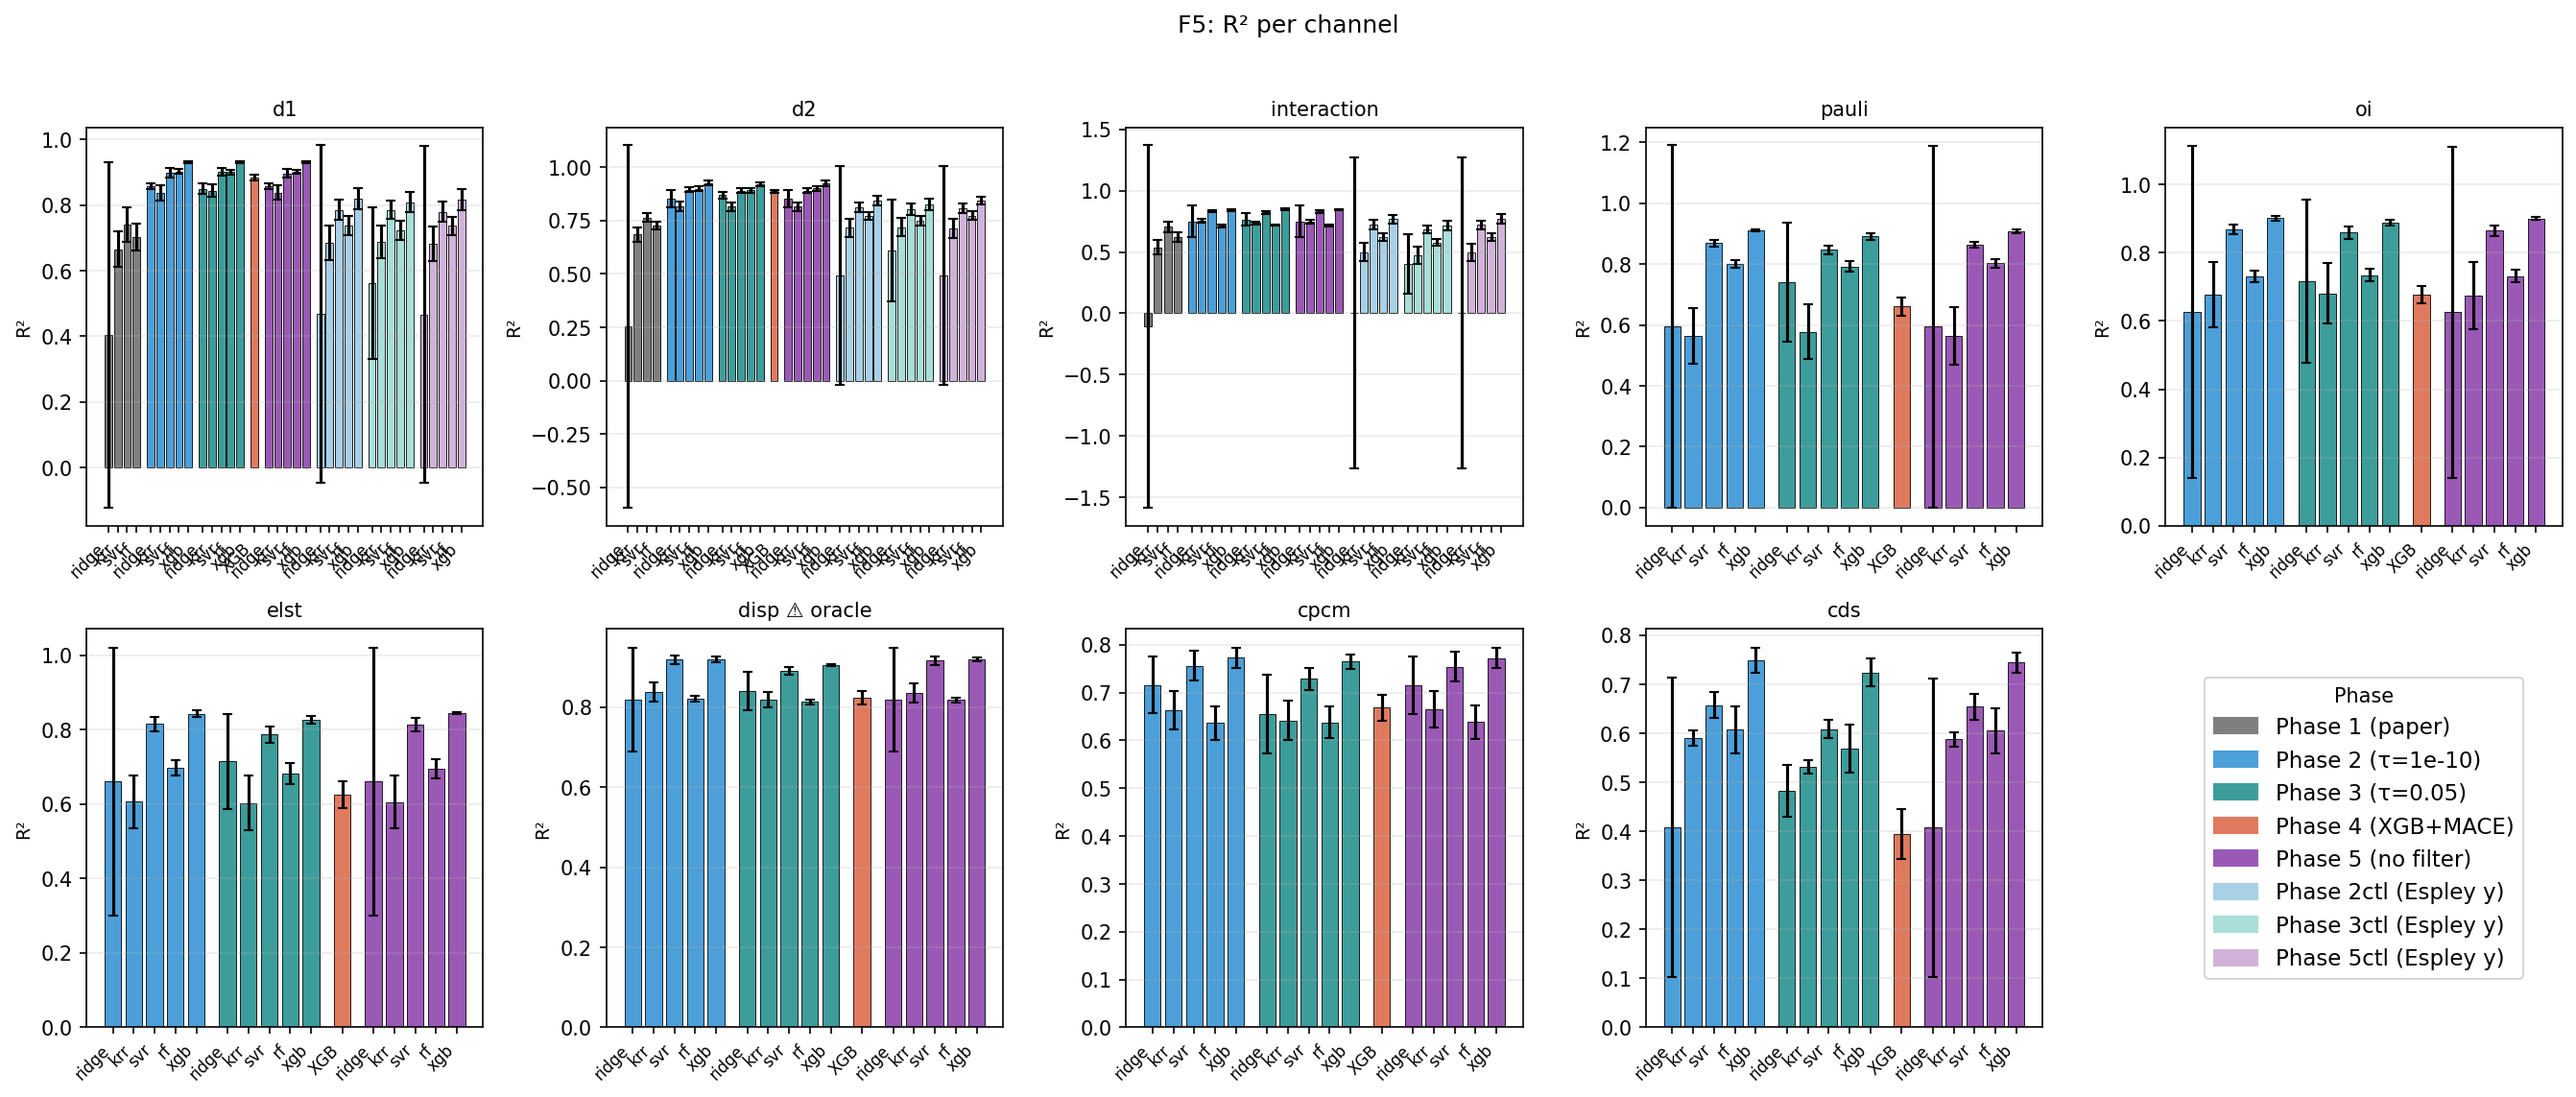
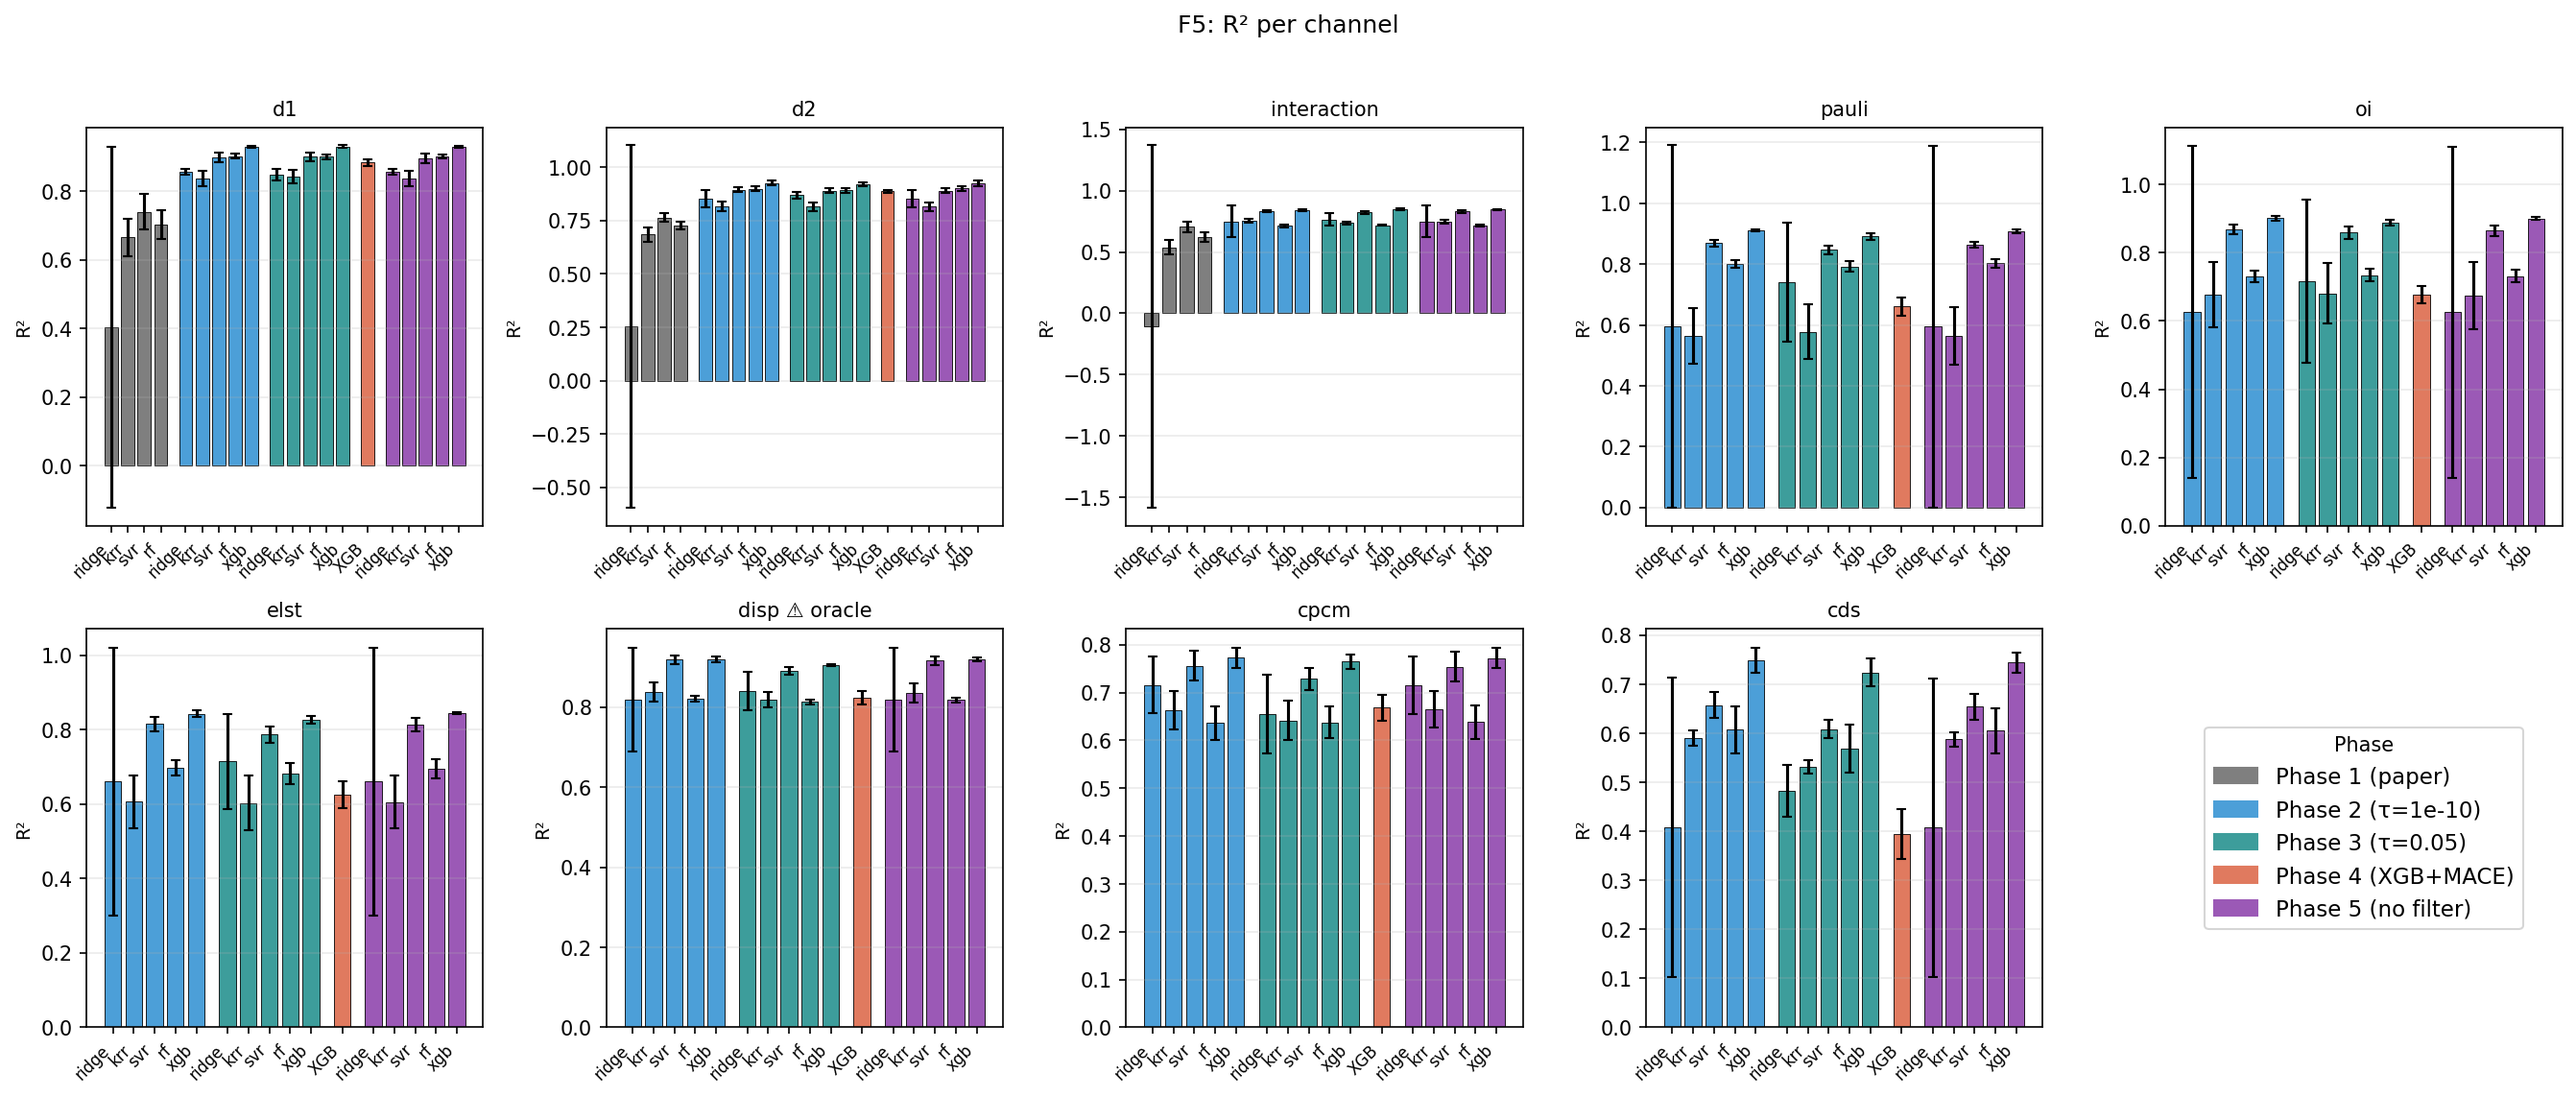
Remove CTL control arm (not user-requested)
Reverting the R4 control-arm addition that was silently included in
08_aggregate_v3.py without explicit user approval. Deletes:
- F{1,2,3,4}_*_P1_vs_CTL.png (4 figures)
- PHASE_CTL_TARGETS + ctl phase entries in build_records
- ctl entries from PHASE_COLORS and MAD lookup
- ctl render_set branch (default RENDER_ONLY now only P1_P3_P4, P2_P3_P5)

Regenerated records_all.csv (155 rows, down from 200) + REPORT.md +
F5_R2.png without ctl entries.

diff --git a/analysis/bath1480_probe/experiments/scripts/08_aggregate_v3.py b/analysis/bath1480_probe/experiments/scripts/08_aggregate_v3.py
@@ -9,11 +9,6 @@ Changes vs 07_aggregate_v2.py:
   3. disp channel marked as ORACLE (analytical D4-derived), excluded from
      best-model ranking narrative but still reported in tables/figures.
   4. Same 8-figure split (P1_P3_P4, P2_P3_P5) as v2.
-  5. Adds **control arm** (Phase 2ctl/3ctl/5ctl): armB-v2 features × Espley
-     original DFT labels — isolates feature-set effect from label-set effect
-     for clean Phase 1 comparison. No extra HPC (v2 datasets contain both
-     Espley `_dft` and our `_own_dft` targets; ml_analysis trains all in
-     single run).
 
 Methodology notes (see README):
   - HPs (`hps_phase23_v2.pkl`) are aliased from paper Arm A tuning (46
@@ -43,10 +38,6 @@ PHASE_COLORS = {
     "Phase 3 (τ=0.05)":           "#3d9d9b",
     "Phase 4 (XGB+MACE)":         "#e07a5f",
     "Phase 5 (no filter)":        "#9b59b6",
-    # Control arms — armB-v2 features × Espley original labels
-    "Phase 2ctl (Espley y)":      "#a8d0e6",
-    "Phase 3ctl (Espley y)":      "#a8dfd9",
-    "Phase 5ctl (Espley y)":      "#d1b3d9",
 }
 MODEL_ORDER = ["ridge", "krr", "svr", "rf", "xgb"]
 
@@ -70,13 +61,6 @@ PHASE4_TARGETS = {
     "d1": "d1_own", "d2": "d2_own",
     "pauli": "pauli_dft", "oi": "oi_dft", "elst": "elst_dft",
     "disp": "disp_dft", "cpcm": "cpcm_dft", "cds": "cds_dft",
-}
-# Control arm: armB-v2 features × Espley original DFT labels
-# — isolates feature-set effect from label-set effect for Phase 1 comparison
-PHASE_CTL_TARGETS = {
-    "d1":          "distortion_energy_1_dft",
-    "d2":          "distortion_energy_2_dft",
-    "interaction": "interaction_energies_dft",
 }
 ORACLE_CHANNELS = {"disp"}  # D4 dispersion is analytical from geometry — declared oracle
 
@@ -184,10 +168,6 @@ def build_records(p1, p2, p3, p5, p4, mad_lookup):
     add_phase("Phase 3 (τ=0.05)",        p3, COMMON_OWN,           MODEL_ORDER, "phase3")
     add_phase("Phase 5 (no filter)",     p5, COMMON_OWN,           MODEL_ORDER, "phase5")
     add_phase("Phase 4 (XGB+MACE)",      p4, PHASE4_TARGETS,       ["XGB+MACE"], "phase4")
-    # Control arm: same v2 features, Espley original labels (feature-only ablation vs Phase 1)
-    add_phase("Phase 2ctl (Espley y)",   p2, PHASE_CTL_TARGETS,    MODEL_ORDER, "phase2_ctl")
-    add_phase("Phase 3ctl (Espley y)",   p3, PHASE_CTL_TARGETS,    MODEL_ORDER, "phase3_ctl")
-    add_phase("Phase 5ctl (Espley y)",   p5, PHASE_CTL_TARGETS,    MODEL_ORDER, "phase5_ctl")
     return pd.DataFrame(rows)
 
 
@@ -258,7 +238,7 @@ def figure_grouped_bars(records, canonicals, metric_col, err_col, title, ylabel,
 
 
 def main():
-    print("v3 aggregation — oracle-clean + meanAD-normalized NMAE + control arm")
+    print("v3 aggregation — oracle-clean + meanAD-normalized NMAE")
     # Label MAD lookup (canonical MAD per dataset+target)
     ds = {"phase1": EXP/"cohort_v1/features_espley_v1.pkl",  # not really — Phase 1 uses labels_v1
           "phase2": EXP/"cohort_v1/phase2_dataset_v2.pkl",
@@ -282,12 +262,7 @@ def main():
         for c in ["pauli_dft","oi_dft","elst_dft","disp_dft","cpcm_dft","cds_dft"]:
             if c in p5_ds.columns: mad_lookup[(name, c)] = mad(p5_ds[c])
     for c in ["distortion_energy_1_dft","distortion_energy_2_dft","interaction_energies_dft"]:
-        if c in p5_ds.columns:
-            v = mad(p5_ds[c])
-            mad_lookup[("phase1", c)] = v
-            # Control arms use same Espley targets across features
-            for tag in ["phase2_ctl","phase3_ctl","phase5_ctl"]:
-                mad_lookup[(tag, c)] = v
+        if c in p5_ds.columns: mad_lookup[("phase1", c)] = mad(p5_ds[c])
     # Phase 4 labels (d1_own without _dft suffix — from labels_v1)
     for c_own, tgt_col in [("d1_own","d1_own"),("d2_own","d2_own")]:
         if tgt_col in labels_v1.columns: mad_lookup[("phase4", c_own)] = mad(labels_v1[tgt_col])
@@ -342,16 +317,13 @@ def main():
 
     only = os.environ.get("RENDER_ONLY", "").strip()
     if not only or only == "all":
-        render_sets = ["P1_P3_P4", "P2_P3_P5", "P1_vs_CTL"]
+        render_sets = ["P1_P3_P4", "P2_P3_P5"]
     else:
         render_sets = [s.strip() for s in only.split(",")]
-    filter_CTL = ["Phase 1 (paper)", "Phase 2ctl (Espley y)", "Phase 3ctl (Espley y)", "Phase 5ctl (Espley y)"]
     if "P1_P3_P4" in render_sets:
         render_set("P1_P3_P4", filter_A, exclude_A)
     if "P2_P3_P5" in render_sets:
         render_set("P2_P3_P5", filter_B, None)
-    if "P1_vs_CTL" in render_sets:
-        render_set("P1_vs_CTL", filter_CTL, None)
 
     # F5 R² (single full)
     figure_grouped_bars(records, d12 + other, "r2_mean", "r2_std",
@@ -368,8 +340,8 @@ def main():
                 "sklearn arms are therefore slightly HP-underfit for their actual feature "
                 "set. XGB uses fixed defaults + early-stopping-on-val, so any XGB advantage "
                 "reported here is conservative under this HP handicap.\n")
-        f.write("- Control arms (Phase 2ctl/3ctl/5ctl) use armB-v2 features paired with "
-                "Espley original DFT labels — the clean feature-only ablation vs Phase 1.\n\n")
+
+
         f.write("## Fixes applied\n")
         f.write("- Removed oracle features `disp_xtb`, `dispd4_xtb`, `eint_total_xtb` from all datasets.\n")
         f.write("- Fixed strain frag index swap: `strain_1_xtb ↔ strain_2_xtb`.\n")

diff --git a/analysis/bath1480_probe/experiments/results/comparison_v3/REPORT.md b/analysis/bath1480_probe/experiments/results/comparison_v3/REPORT.md
@@ -4,8 +4,6 @@ Dataset: bath_1480, 3504 rxns
 
 ## Methodology notes
 - HPs (`hps_phase23_v2.pkl`) are **aliased from paper Arm A tuning** (46 Espley features). No per-arm re-tuning against v2 60-feature space; sklearn arms are therefore slightly HP-underfit for their actual feature set. XGB uses fixed defaults + early-stopping-on-val, so any XGB advantage reported here is conservative under this HP handicap.
-- Control arms (Phase 2ctl/3ctl/5ctl) use armB-v2 features paired with Espley original DFT labels — the clean feature-only ablation vs Phase 1.
-
 ## Fixes applied
 - Removed oracle features `disp_xtb`, `dispd4_xtb`, `eint_total_xtb` from all datasets.
 - Fixed strain frag index swap: `strain_1_xtb ↔ strain_2_xtb`.
@@ -45,21 +43,6 @@ Dataset: bath_1480, 3504 rxns
 | Phase 5 (no filter) | rf | 2.208 ± 0.055 | 0.287 |
 | Phase 5 (no filter) | xgb | 1.814 ± 0.023 | 0.236 |
 | Phase 4 (XGB+MACE) | XGB+MACE | 2.397 ± 0.103 | 0.311 |
-| Phase 2ctl (Espley y) | ridge | 3.054 ± 0.243 | 0.545 |
-| Phase 2ctl (Espley y) | krr | 2.865 ± 0.118 | 0.512 |
-| Phase 2ctl (Espley y) | svr | 2.448 ± 0.114 | 0.437 |
-| Phase 2ctl (Espley y) | rf | 2.800 ± 0.072 | 0.500 |
-| Phase 2ctl (Espley y) | xgb | 2.224 ± 0.120 | 0.397 |
-| Phase 3ctl (Espley y) | ridge | 3.160 ± 0.199 | 0.564 |
-| Phase 3ctl (Espley y) | krr | 2.894 ± 0.109 | 0.517 |
-| Phase 3ctl (Espley y) | svr | 2.465 ± 0.104 | 0.440 |
-| Phase 3ctl (Espley y) | rf | 2.910 ± 0.058 | 0.520 |
-| Phase 3ctl (Espley y) | xgb | 2.305 ± 0.087 | 0.412 |
-| Phase 5ctl (Espley y) | ridge | 3.057 ± 0.241 | 0.546 |
-| Phase 5ctl (Espley y) | krr | 2.887 ± 0.116 | 0.516 |
-| Phase 5ctl (Espley y) | svr | 2.482 ± 0.093 | 0.443 |
-| Phase 5ctl (Espley y) | rf | 2.801 ± 0.056 | 0.500 |
-| Phase 5ctl (Espley y) | xgb | 2.255 ± 0.123 | 0.403 |
 
 ### d2
 
@@ -85,21 +68,6 @@ Dataset: bath_1480, 3504 rxns
 | Phase 5 (no filter) | rf | 1.795 ± 0.079 | 0.270 |
 | Phase 5 (no filter) | xgb | 1.439 ± 0.068 | 0.216 |
 | Phase 4 (XGB+MACE) | XGB+MACE | 1.971 ± 0.035 | 0.296 |
-| Phase 2ctl (Espley y) | ridge | 2.766 ± 0.095 | 0.536 |
-| Phase 2ctl (Espley y) | krr | 2.584 ± 0.127 | 0.500 |
-| Phase 2ctl (Espley y) | svr | 2.134 ± 0.142 | 0.413 |
-| Phase 2ctl (Espley y) | rf | 2.374 ± 0.065 | 0.460 |
-| Phase 2ctl (Espley y) | xgb | 1.893 ± 0.059 | 0.367 |
-| Phase 3ctl (Espley y) | ridge | 2.770 ± 0.126 | 0.536 |
-| Phase 3ctl (Espley y) | krr | 2.565 ± 0.124 | 0.497 |
-| Phase 3ctl (Espley y) | svr | 2.207 ± 0.150 | 0.427 |
-| Phase 3ctl (Espley y) | rf | 2.509 ± 0.101 | 0.486 |
-| Phase 3ctl (Espley y) | xgb | 2.037 ± 0.092 | 0.394 |
-| Phase 5ctl (Espley y) | ridge | 2.766 ± 0.095 | 0.536 |
-| Phase 5ctl (Espley y) | krr | 2.600 ± 0.134 | 0.503 |
-| Phase 5ctl (Espley y) | svr | 2.164 ± 0.139 | 0.419 |
-| Phase 5ctl (Espley y) | rf | 2.383 ± 0.077 | 0.461 |
-| Phase 5ctl (Espley y) | xgb | 1.890 ± 0.042 | 0.366 |
 
 ### interaction
 
@@ -124,21 +92,6 @@ Dataset: bath_1480, 3504 rxns
 | Phase 5 (no filter) | svr | 2.052 ± 0.134 | 0.431 |
 | Phase 5 (no filter) | rf | 2.823 ± 0.155 | 0.593 |
 | Phase 5 (no filter) | xgb | 2.040 ± 0.102 | 0.428 |
-| Phase 2ctl (Espley y) | ridge | 3.041 ± 0.218 | 0.634 |
-| Phase 2ctl (Espley y) | krr | 2.928 ± 0.171 | 0.611 |
-| Phase 2ctl (Espley y) | svr | 2.345 ± 0.142 | 0.489 |
-| Phase 2ctl (Espley y) | rf | 2.758 ± 0.166 | 0.575 |
-| Phase 2ctl (Espley y) | xgb | 2.127 ± 0.137 | 0.443 |
-| Phase 3ctl (Espley y) | ridge | 3.221 ± 0.122 | 0.672 |
-| Phase 3ctl (Espley y) | krr | 3.063 ± 0.138 | 0.639 |
-| Phase 3ctl (Espley y) | svr | 2.532 ± 0.089 | 0.528 |
-| Phase 3ctl (Espley y) | rf | 2.942 ± 0.121 | 0.614 |
-| Phase 3ctl (Espley y) | xgb | 2.350 ± 0.140 | 0.490 |
-| Phase 5ctl (Espley y) | ridge | 3.042 ± 0.217 | 0.634 |
-| Phase 5ctl (Espley y) | krr | 2.951 ± 0.174 | 0.615 |
-| Phase 5ctl (Espley y) | svr | 2.355 ± 0.128 | 0.491 |
-| Phase 5ctl (Espley y) | rf | 2.755 ± 0.148 | 0.574 |
-| Phase 5ctl (Espley y) | xgb | 2.132 ± 0.137 | 0.445 |
 
 ### pauli
 
